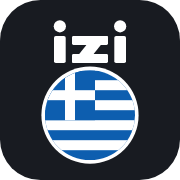
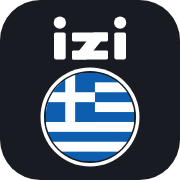
Единый фавикон на лендинг и кабинет, тёмный шов вокруг флага
Фавикон раньше был свой у каждого проекта и разный между лендингом и
кабинетом. Теперь один набор: favicon.svg + png 16/32/48 и
apple-touch-icon.png 180. На лендингах в apple-touch-icon стоял SVG —
iOS его не понимает и делал скриншот страницы.

Фавикон устроен не так, как иконка приложения: флаг во всю площадь, без
логотипа, круга и фона. На 16 px «izi» превращается в грязь, а кольцо
шириной 2 единицы при 32 px это 0.6 пикселя — оно не выживает при
растеризации.

В самой иконке добавлен тёмный шов между флагом и белым кольцом. Без него
белая нижняя треть сербского флага сливалась с кольцом и круг терял форму.
Шов, в свою очередь, сливается с чёрной полосой немецкого флага, но там
границу держит белое кольцо снаружи — так закрыты оба края палитры.

Changed region(s): [[0.2222, 0.1667, 0.7778, 0.9444], [0.6111, 0.0833, 0.7222, 0.2222], [0.2778, 0.0833, 0.3889, 0.2222]]

diff --git a/index.html b/index.html
@@ -8,6 +8,9 @@
   <meta name="apple-mobile-web-app-title" content="Греческий">
   <title>Греческий для Грека</title>
   <link rel="manifest" href="manifest.json">
+  <link rel="icon" type="image/svg+xml" href="favicon.svg">
+  <link rel="icon" type="image/png" sizes="32x32" href="favicon-32.png">
+  <link rel="icon" type="image/png" sizes="16x16" href="favicon-16.png">
   <link rel="apple-touch-icon" href="apple-touch-icon.png">
   <link rel="preconnect" href="https://fonts.googleapis.com">
   <link rel="preconnect" href="https://fonts.gstatic.com" crossorigin>
